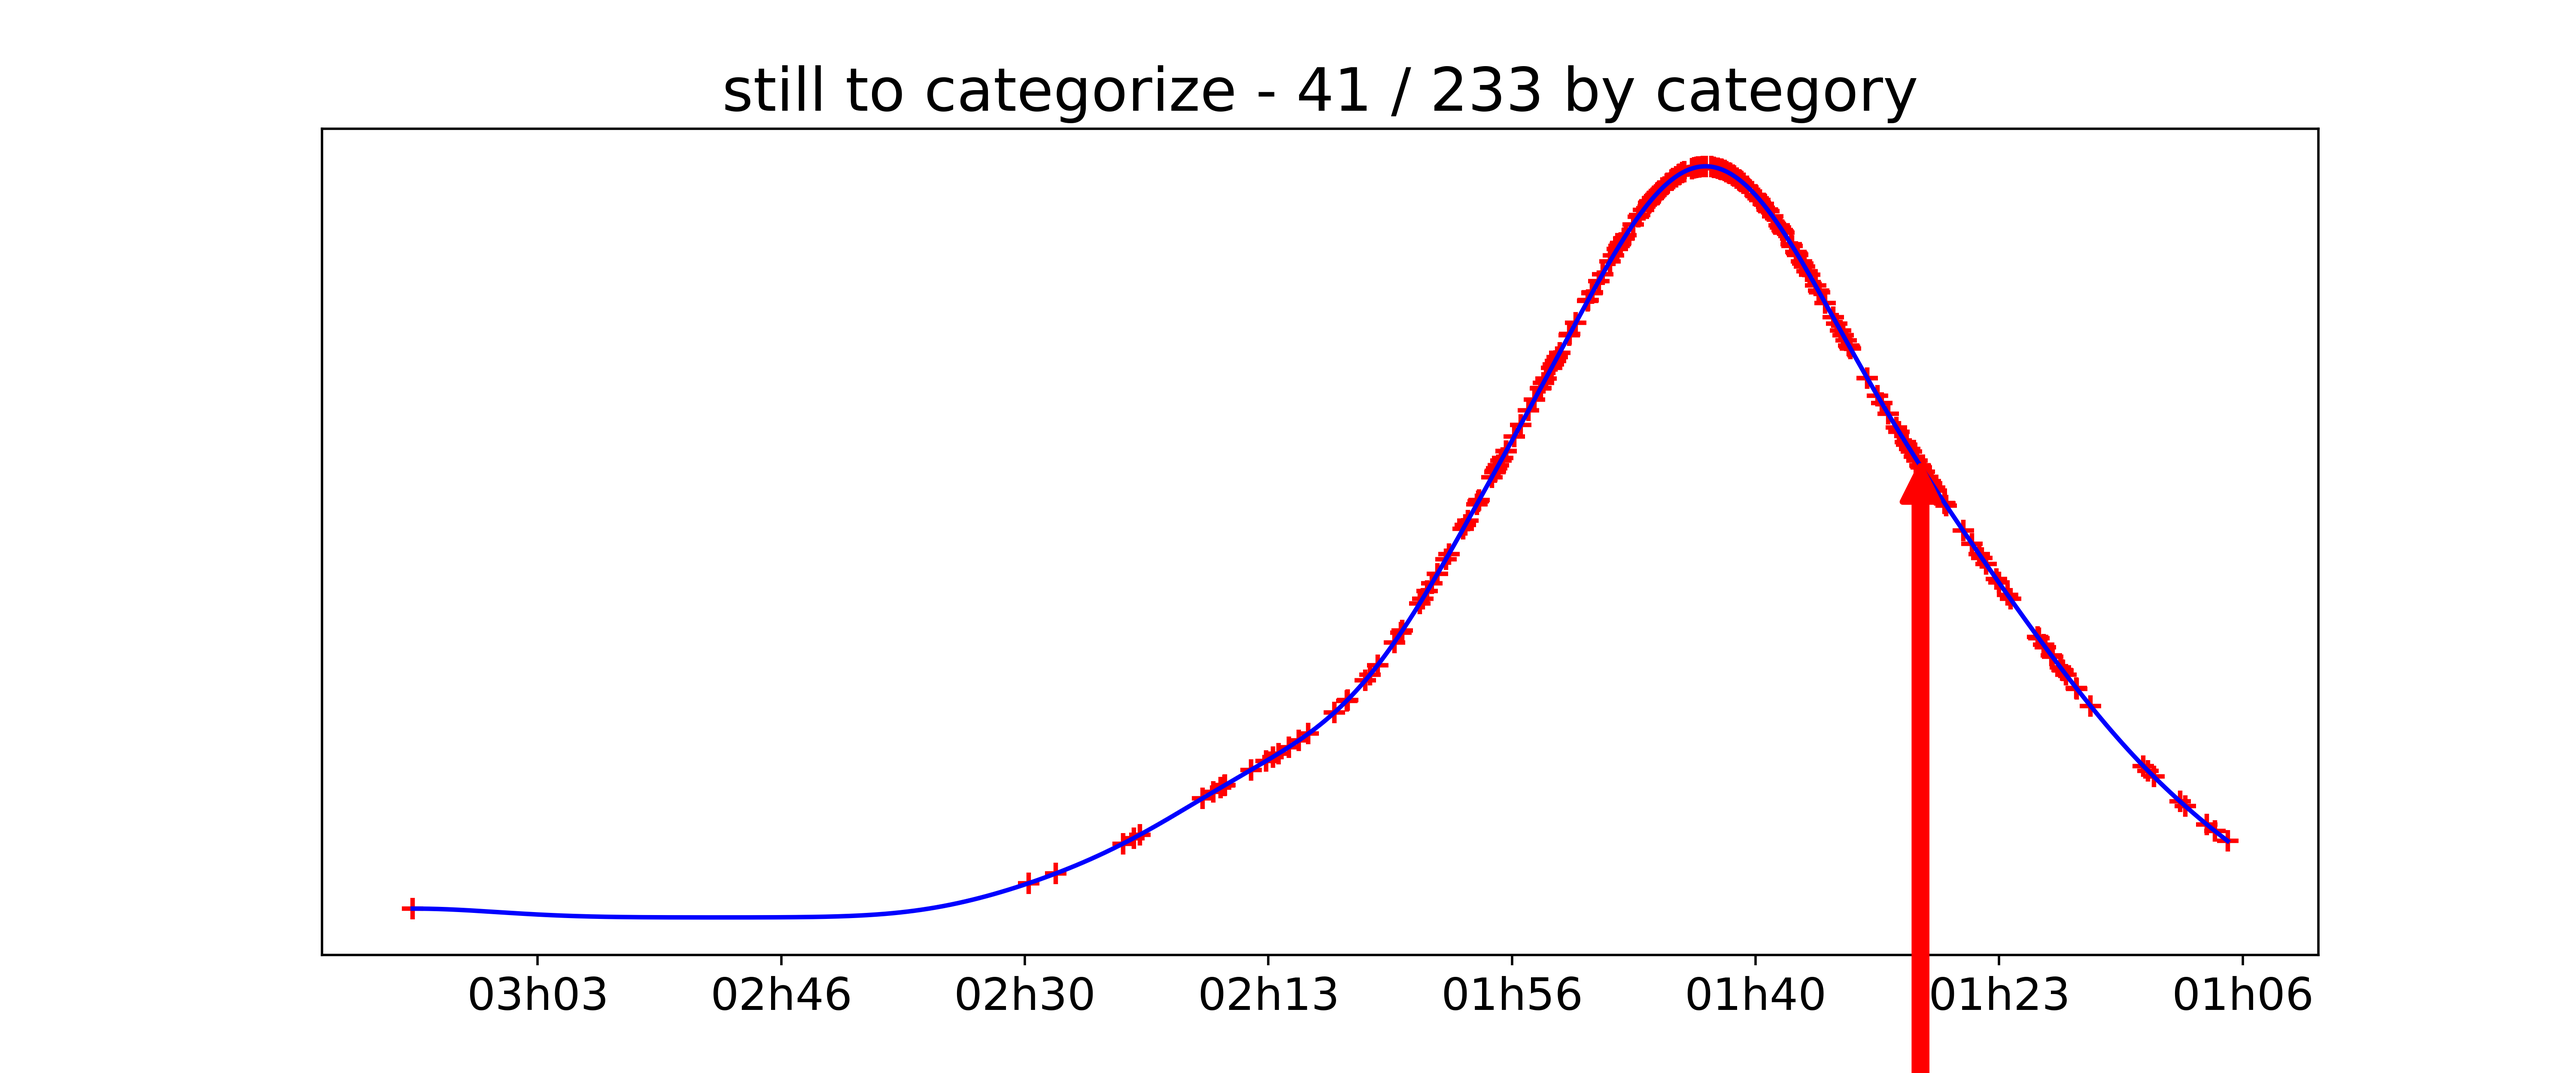
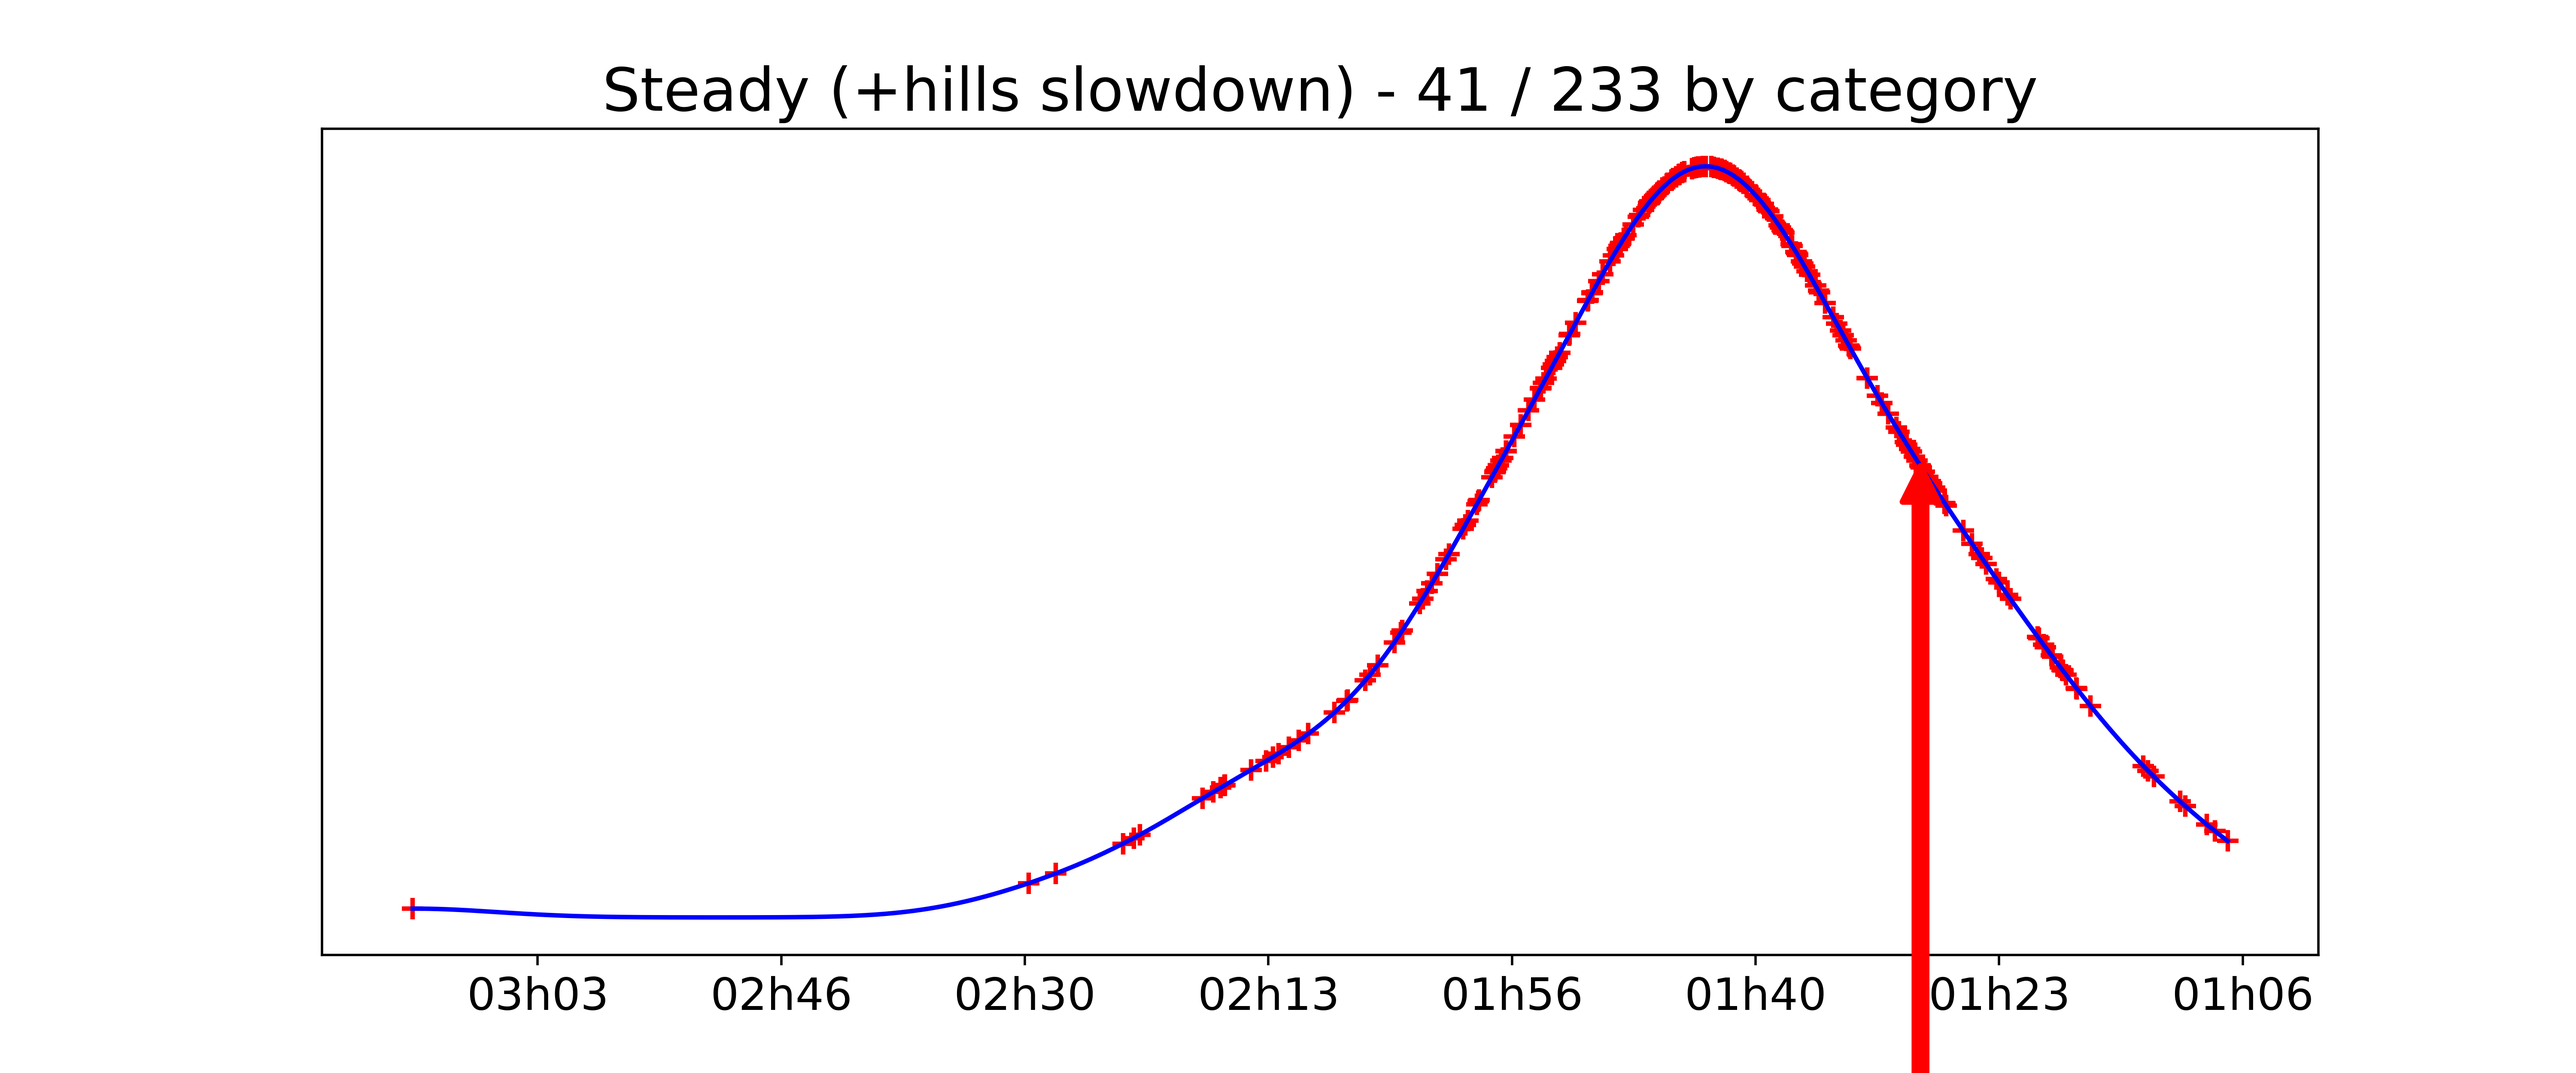
adding the runners caracterization through Kmeans algorithm

Changed region(s): [[0.2182, 0.0624, 0.7792, 0.1248]]

diff --git a/Data/race_datas.py b/Data/race_datas.py
@@ -201,34 +201,34 @@ class Race_Datas:
                     # right figure is the placement of the runner in the category results
                     runner_category = name_runner["Category"].values[0]
                     if runner_category == "JUH" :
-                        self.get_gaussienne_graph(self.juh_runners["Finish"], "Data/right_figure.png", f"still to categorize - {name_runner["Category_Rank"].values[0]} / {len(self.juh_runners)} by category", "", True, name_runner["Finish"].values[0])
+                        self.get_gaussienne_graph(self.juh_runners["Finish"], "Data/right_figure.png", f"{name_runner["Cluster_10_Label"].values[0]} - {name_runner["Category_Rank"].values[0]} / {len(self.juh_runners)} by category", "", True, name_runner["Finish"].values[0])
                         return 3, name_runner, self.juh_runners
                     elif runner_category == "JUF" :
-                        self.get_gaussienne_graph(self.juf_runners["Finish"], "Data/right_figure.png", f"still to categorize - {name_runner["Category_Rank"].values[0]} / {len(self.juf_runners)} by category", "", True, name_runner["Finish"].values[0])
+                        self.get_gaussienne_graph(self.juf_runners["Finish"], "Data/right_figure.png", f"{name_runner["Cluster_10_Label"].values[0]} - {name_runner["Category_Rank"].values[0]} / {len(self.juf_runners)} by category", "", True, name_runner["Finish"].values[0])
                         return 3, name_runner, self.juf_runners
                     elif runner_category == "ESH" :
-                        self.get_gaussienne_graph(self.esh_runners["Finish"], "Data/right_figure.png", f"still to categorize - {name_runner["Category_Rank"].values[0]} / {len(self.esh_runners)} by category", "", True, name_runner["Finish"].values[0])
+                        self.get_gaussienne_graph(self.esh_runners["Finish"], "Data/right_figure.png", f"{name_runner["Cluster_10_Label"].values[0]} - {name_runner["Category_Rank"].values[0]} / {len(self.esh_runners)} by category", "", True, name_runner["Finish"].values[0])
                         return 3, name_runner, self.esh_runners
                     elif runner_category == "ESF" :
-                        self.get_gaussienne_graph(self.esf_runners["Finish"], "Data/right_figure.png", f"still to categorize - {name_runner["Category_Rank"].values[0]} / {len(self.esf_runners)} by category", "", True, name_runner["Finish"].values[0])
+                        self.get_gaussienne_graph(self.esf_runners["Finish"], "Data/right_figure.png", f"{name_runner["Cluster_10_Label"].values[0]} - {name_runner["Category_Rank"].values[0]} / {len(self.esf_runners)} by category", "", True, name_runner["Finish"].values[0])
                         return 3, name_runner, self.esf_runners
                     elif runner_category == "SEH" :
-                        self.get_gaussienne_graph(self.seh_runners["Finish"], "Data/right_figure.png", f"still to categorize - {name_runner["Category_Rank"].values[0]} / {len(self.seh_runners)} by category", "", True, name_runner["Finish"].values[0])
+                        self.get_gaussienne_graph(self.seh_runners["Finish"], "Data/right_figure.png", f"{name_runner["Cluster_10_Label"].values[0]} - {name_runner["Category_Rank"].values[0]} / {len(self.seh_runners)} by category", "", True, name_runner["Finish"].values[0])
                         return 3, name_runner, self.seh_runners
                     elif runner_category == "SEF" :
-                        self.get_gaussienne_graph(self.sef_runners["Finish"], "Data/right_figure.png", f"still to categorize - {name_runner["Category_Rank"].values[0]} / {len(self.sef_runners)} by category", "", True, name_runner["Finish"].values[0])
+                        self.get_gaussienne_graph(self.sef_runners["Finish"], "Data/right_figure.png", f"{name_runner["Cluster_10_Label"].values[0]} - {name_runner["Category_Rank"].values[0]} / {len(self.sef_runners)} by category", "", True, name_runner["Finish"].values[0])
                         return 3, name_runner, self.sef_runners
                     elif runner_category == "MAH1" :
-                        self.get_gaussienne_graph(self.mah_1_runners["Finish"], "Data/right_figure.png", f"still to categorize - {name_runner["Category_Rank"].values[0]} / {len(self.mah_1_runners)} by category", "", True, name_runner["Finish"].values[0])
+                        self.get_gaussienne_graph(self.mah_1_runners["Finish"], "Data/right_figure.png", f"{name_runner["Cluster_10_Label"].values[0]} - {name_runner["Category_Rank"].values[0]} / {len(self.mah_1_runners)} by category", "", True, name_runner["Finish"].values[0])
                         return 3, name_runner, self.mah_1_runners
                     elif runner_category == "MAH2" :
-                        self.get_gaussienne_graph(self.mah_2_runners["Finish"], "Data/right_figure.png", f"still to categorize - {name_runner["Category_Rank"].values[0]} / {len(self.mah_2_runners)} by category", "", True, name_runner["Finish"].values[0])
+                        self.get_gaussienne_graph(self.mah_2_runners["Finish"], "Data/right_figure.png", f"{name_runner["Cluster_10_Label"].values[0]} - {name_runner["Category_Rank"].values[0]} / {len(self.mah_2_runners)} by category", "", True, name_runner["Finish"].values[0])
                         return 3, name_runner, self.mah_2_runners
                     elif runner_category == "MAF1" :
-                        self.get_gaussienne_graph(self.maf_1_runners["Finish"], "Data/right_figure.png", f"still to categorize - {name_runner["Category_Rank"].values[0]} / {len(self.maf_1_runners)} by category", "", True, name_runner["Finish"].values[0])
+                        self.get_gaussienne_graph(self.maf_1_runners["Finish"], "Data/right_figure.png", f"{name_runner["Cluster_10_Label"].values[0]} - {name_runner["Category_Rank"].values[0]} / {len(self.maf_1_runners)} by category", "", True, name_runner["Finish"].values[0])
                         return 3, name_runner, self.maf_1_runners
                     elif runner_category == "MAF2" :
-                        self.get_gaussienne_graph(self.maf_2_runners["Finish"], "Data/right_figure.png", f"still to categorize - {name_runner["Category_Rank"].values[0]} / {len(self.maf_2_runners)} by category", "", True, name_runner["Finish"].values[0])
+                        self.get_gaussienne_graph(self.maf_2_runners["Finish"], "Data/right_figure.png", f"{name_runner["Cluster_10_Label"].values[0]} - {name_runner["Category_Rank"].values[0]} / {len(self.maf_2_runners)} by category", "", True, name_runner["Finish"].values[0])
                         return 3, name_runner, self.maf_2_runners
                 
             else: # otherwise, we didn't find any or we found multiple runners, we return none, it will dealt by the graphical interface
@@ -458,11 +458,11 @@ class Race_Datas:
 
             if nb_clusters == 5:
                 cluster_5_labels = {
-                    0: "Positive Split", # slows down at each interval by a small amount
-                    3: "Strong Starter", # starts really fast compared to the average
-                    1: "Negative Split", # accelerates at each interval by a small amount
-                    4: "Fast Finisher", # ends really fast compared to the average
-                    2: "Consistent", # stays almost at the same pace at each interval
+                    0: "Positive split", # slows down at each interval by a small amount
+                    3: "Strong starter", # starts really fast compared to the average
+                    1: "Negative split", # accelerates at each interval by a small amount
+                    4: "Fast finisher", # ends really fast compared to the average
+                    2: "Steady pace", # stays almost at the same pace at each interval
                 }
                 df["Cluster_5_Label"] = df["Cluster_5"].map(cluster_5_labels)
 
@@ -472,28 +472,52 @@ class Race_Datas:
                 print(cluster_counts)
                 print("\n")
 
-            else : 
-                cluster_9_labels = {
-                    3: "Strong Starter", # starts really fast compared to the average and the last 16 km
-                    5: "Bad Starter", # starts really slow compared to the average and the last 16 km
-                    4: "Fast Finisher", # ends really fast compared to the average and the first 15 km
-                    6: "Bad Finisher", # ends really slow compared to the average and the first 15 km
-                    0: "Positive Split", # slows down at each interval by a small amount
-                    1: "Negative Split", # accelerates at each interval by a small amount
-                    2: "Consistent", # stays almost at the same pace at each interval
-                    7: "Mid-Race accellerator", # start and end 5k slow compared to the middle 10k
-                    8: "Mid-Race decelerator" # start and end 5k fast compared to the middle 10k
+            elif nb_clusters == 8: 
+                cluster_8_labels = {
+                    3: "Steady Pace", # stays almost at the same pace at each interval
+                    0 : "Steady + hills struggles",  # small drop in pace in the climbs (around the 10k mark)
+                    2: "Mid-race slowdown", # first 10k fast compared to the last 11.097 km
+                    
+                    1: "Weak finisher", # ends really slow compared to the average and the first 15 km
+                    4: "Strong starter", # starts really fast compared to the average and the last 16 km
+                    7: "Positive split", # slows down at each interval by a small amount
+                    
+                    6: "Weak starter", # starts really slow compared to the average and the last 16 km
+                    5: "Negative split" # accelerates at each interval by a small amount
                 }
-                df["Cluster_9_Label"] = df["Cluster_9"].map(cluster_9_labels)
+                df["Cluster_8_Label"] = df["Cluster_8"].map(cluster_8_labels)
+                # get the number of runners in each cluster
+                cluster_counts = df[f"Cluster_8_Label"].value_counts()
+                print(f"{nb_clusters} Clusters counts:")
+                print(cluster_counts)
+                print("\n")
 
-                cluster_counts = df[f"Cluster_9_Label"].value_counts()
+            elif nb_clusters == 10: 
+                cluster_10_labels = {
+                    4: "Steady pace", # stays almost at the same pace at each interval
+                    1: "Steady (+hills slowdown)", # small drop in pace in climbs (around the 10k mark)
+                    5: "cautious start, get times back 5-10k then consistent", # cautious start, picks up speed, then steady
+                    6: "Mid-race slowdown", # first 10k fast compared to the last 11.097 km
+            
+                    8: "Weak finisher", # ends really slow compared to the average and the first 15 km
+                    3: "Struggle at end", # ends slow compared to the average and the first 15 km
+                    2: "Strong starter", # starts really fast compared to the average and the last 16 km
+                    0: "Positive Split", # slows down at each interval by a small amount
+                    
+                    9: "Weak starter", # starts really slow compared to the average and the last 16 km
+                    7: "Negative split" # accelerates at each interval by a small amount
+                }
+                df["Cluster_10_Label"] = df["Cluster_10"].map(cluster_10_labels)
+                # get the number of runners in each cluster
+                cluster_counts = df[f"Cluster_10_Label"].value_counts()
                 print(f"{nb_clusters} Clusters counts:")
                 print(cluster_counts)
                 print("\n")
 
         # applying this to the wanted categories
         apply_kmeans(X, 5)
-        apply_kmeans(X, 9)
+        apply_kmeans(X, 8)
+        apply_kmeans(X, 10)
 
         # 5. Save results 
         df.to_csv(csv_path_output, sep=";", index=False)
